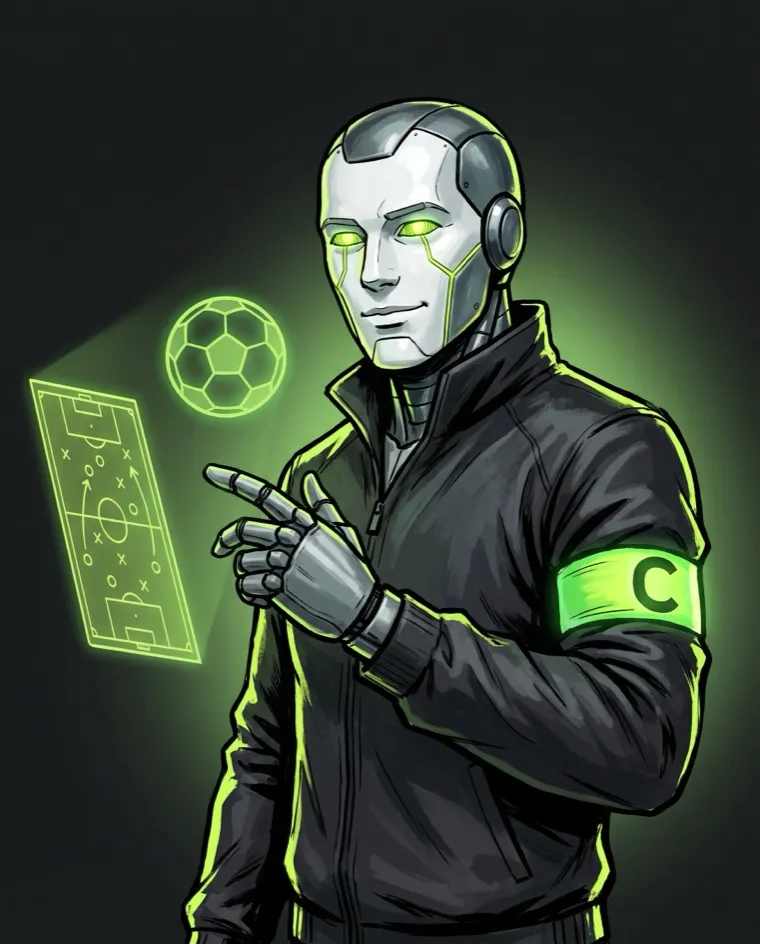
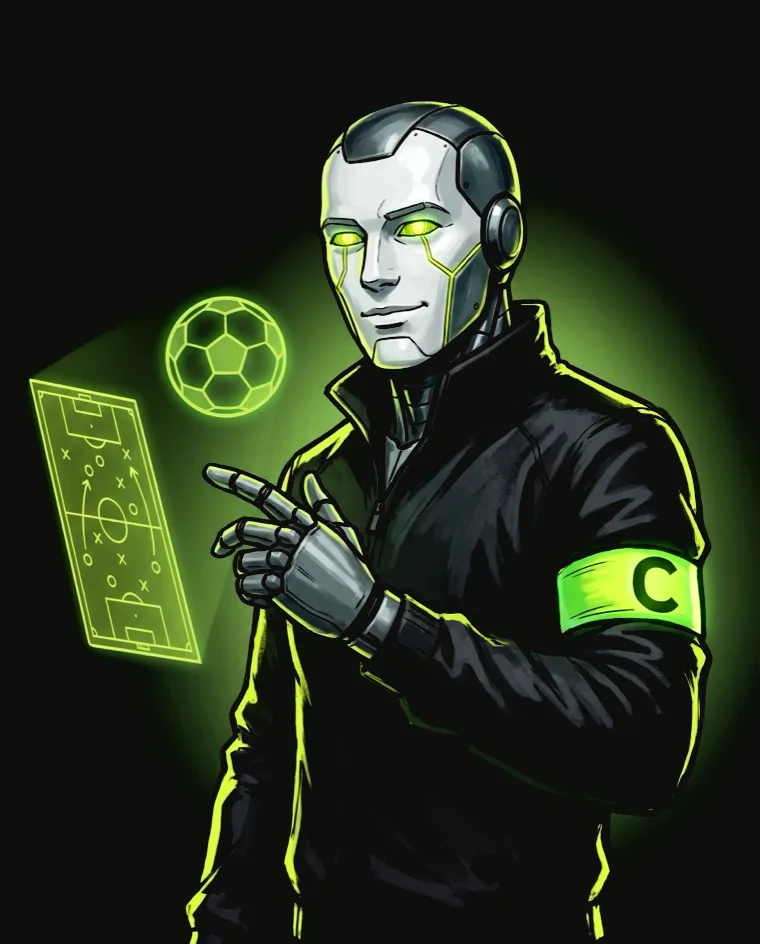
fix: one treatment for both artworks so they match
The two illustrations were inserted with different filters and different masks,
and each carried its own background grey, so the hero read as a pasted rectangle
next to the banner.

- Both source files now go through the same pass: black point lifted so the
  illustration's background collapses into the page black, greens rotated towards
  the brand lime, darkest pixels blended into the page colour.
- One shared insertion in CSS: same radial mask, same object-fit, no per-image
  brightness or hue correction left over.

Claude-Session: https://claude.ai/code/session_01MmGnzvffgVCGJRVzZPhsMQ

diff --git a/index.html b/index.html
@@ -135,7 +135,7 @@ body[data-layout="wide"]{--shell:1120px}
 .hero{position:relative;overflow:hidden;padding:24px 20px;border-radius:16px;background:linear-gradient(150deg,#1d2418 0%,#171915 55%,#131b26 100%);border:1px solid var(--line-strong);box-shadow:var(--shadow);display:flex;flex-direction:column;gap:18px}
 .hero-copy{position:relative;z-index:1;min-width:0}
 .hero-art{position:relative;z-index:1;order:-1;align-self:flex-end;width:180px;aspect-ratio:1/1;margin:-12px -12px -8px 0}
-.hero-photo{display:block;width:100%;height:100%;object-fit:cover;object-position:50% 38%;filter:brightness(.9) contrast(1.24) saturate(1.05) hue-rotate(-6deg);-webkit-mask-image:radial-gradient(62% 66% at 52% 44%,#000 38%,rgba(0,0,0,.5) 70%,transparent 88%);mask-image:radial-gradient(62% 66% at 52% 44%,#000 38%,rgba(0,0,0,.5) 70%,transparent 88%)}
+.hero-photo{display:block;width:100%;height:100%;object-fit:cover;object-position:50% 38%;-webkit-mask-image:radial-gradient(70% 70% at 50% 45%,#000 46%,rgba(0,0,0,.6) 74%,transparent 93%);mask-image:radial-gradient(70% 70% at 50% 45%,#000 46%,rgba(0,0,0,.6) 74%,transparent 93%)}
 .hero:before{content:"";position:absolute;inset:-50% -20% auto auto;width:320px;height:320px;border-radius:50%;background:radial-gradient(closest-side,rgba(215,255,61,.18),transparent 70%);pointer-events:none}
 .hero:after{content:"";position:absolute;inset:auto auto -60% -20%;width:280px;height:280px;border-radius:50%;background:radial-gradient(closest-side,rgba(57,135,229,.16),transparent 70%);pointer-events:none}
 .hero>*{position:relative}
@@ -431,7 +431,7 @@ body[data-layout="wide"]{--shell:1120px}
 .prize-banner .pb-status.on{color:var(--accent)}
 .prize-banner .pb-terms{margin-top:14px;font-size:11px;color:var(--ink-3);line-height:1.5;max-width:86ch}
 .prize-banner .pb-art{position:relative;z-index:1;justify-self:center;width:min(230px,72%);aspect-ratio:760/944;margin:-6px 0 -30px}
-.pb-photo{display:block;width:100%;height:100%;object-fit:cover;object-position:center;filter:brightness(.94) saturate(1.06);-webkit-mask-image:radial-gradient(66% 62% at 53% 45%,#000 40%,rgba(0,0,0,.55) 68%,transparent 86%);mask-image:radial-gradient(66% 62% at 53% 45%,#000 40%,rgba(0,0,0,.55) 68%,transparent 86%)}
+.pb-photo{display:block;width:100%;height:100%;object-fit:cover;object-position:50% 46%;-webkit-mask-image:radial-gradient(70% 70% at 50% 45%,#000 46%,rgba(0,0,0,.6) 74%,transparent 93%);mask-image:radial-gradient(70% 70% at 50% 45%,#000 46%,rgba(0,0,0,.6) 74%,transparent 93%)}
 @media (min-width:820px){
   .prize-banner{grid-template-columns:minmax(0,1fr) minmax(220px,300px);align-items:center;padding:26px 8px 26px 30px;gap:10px}
   .prize-banner h3{font-size:42px}

diff --git a/README.md b/README.md
@@ -3,7 +3,7 @@
 Prototype for the Tribuna.com iGaming Product/Project Manager test task.
 
 - Live prototype: https://youngerfornday.github.io/tribuna-match-iq/
-- Local: open `index.html` in any browser. No build step, works offline. The prototype plus two artwork files in `art/` (95 KB total).
+- Local: open `index.html` in any browser. No build step, works offline. The prototype plus two artwork files in `art/` (100 KB total).
 - Every screen has its own URL (`#/challenges`, `#/match/bay-bvb/play`, `#/board`, `#/me`), so deep links and the browser back button work. In production these map 1:1 to paths under `/match-iq/`.
 - Navigation: a Match IQ sub-nav (Overview / Challenges / Table / You) sits under the site header on every browse screen; the play flow replaces it with one labelled back link. Challenges, Table and You use a 1120px two-column layout from 1024px up; the play flow stays a single 620px column.
 - Table reads in one column: the prize, then where you stand, then the ranking. Partner bonuses are marked as bonuses — a badge on every price that carries one, and an accent card with the reward as its headline.
@@ -67,6 +67,7 @@ All events are visible in the prototype's Metrics panel at the bottom of every s
 
 - Everything is mocked: fan percentages, CaptainAI probabilities and reasoning, partner odds, the leaderboards and the match results. Amounts are in euro.
 - The weekly table is a real field: the named players are hand-written, the rest of the visible top 100 is generated deterministically from a seed so the prize cut-off means something. The stated field size (12.5k) is the number the copy claims, not the number of rendered rows.
+- Both artworks run through the same treatment before shipping: the black point is lifted so each illustration's own background collapses into the page black, greens are pulled towards the brand lime, and both are inserted with one shared radial mask that bleeds them off the block edge. That is why they read as one campaign rather than two stock images.
 - Two pieces of artwork, both generated for this prototype in one style: CaptainAI, the model you play against, on the overview hero, and the crowned winner holding the trophy and the free bet in the prize banner. Nothing is taken from an operator's site: lifting a casino's character art into a public demo is a copyright problem, and it would be the first thing an operator's own legal team objects to.
 - The banner character is deliberately the winning player, not a gambling mascot aimed at a young audience: crowned, holding the trophy the weekly table is played for, with the free bet as the second prize.
 - Market % is computed in code from the average partner odds: implied probability with the bookmaker margin removed for mutually exclusive markets, raw implied probability for the scorer market.
